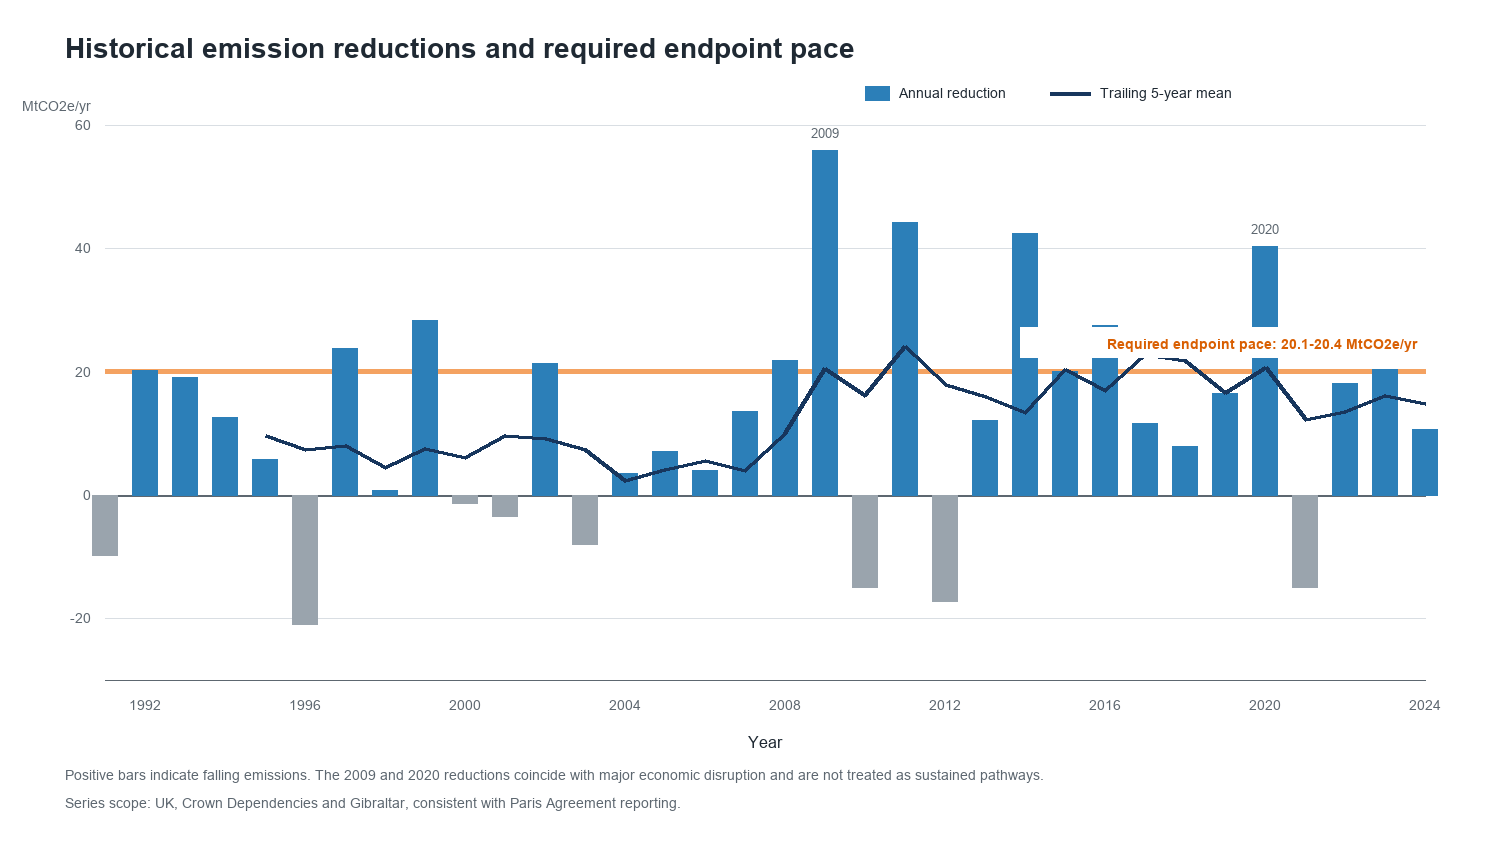
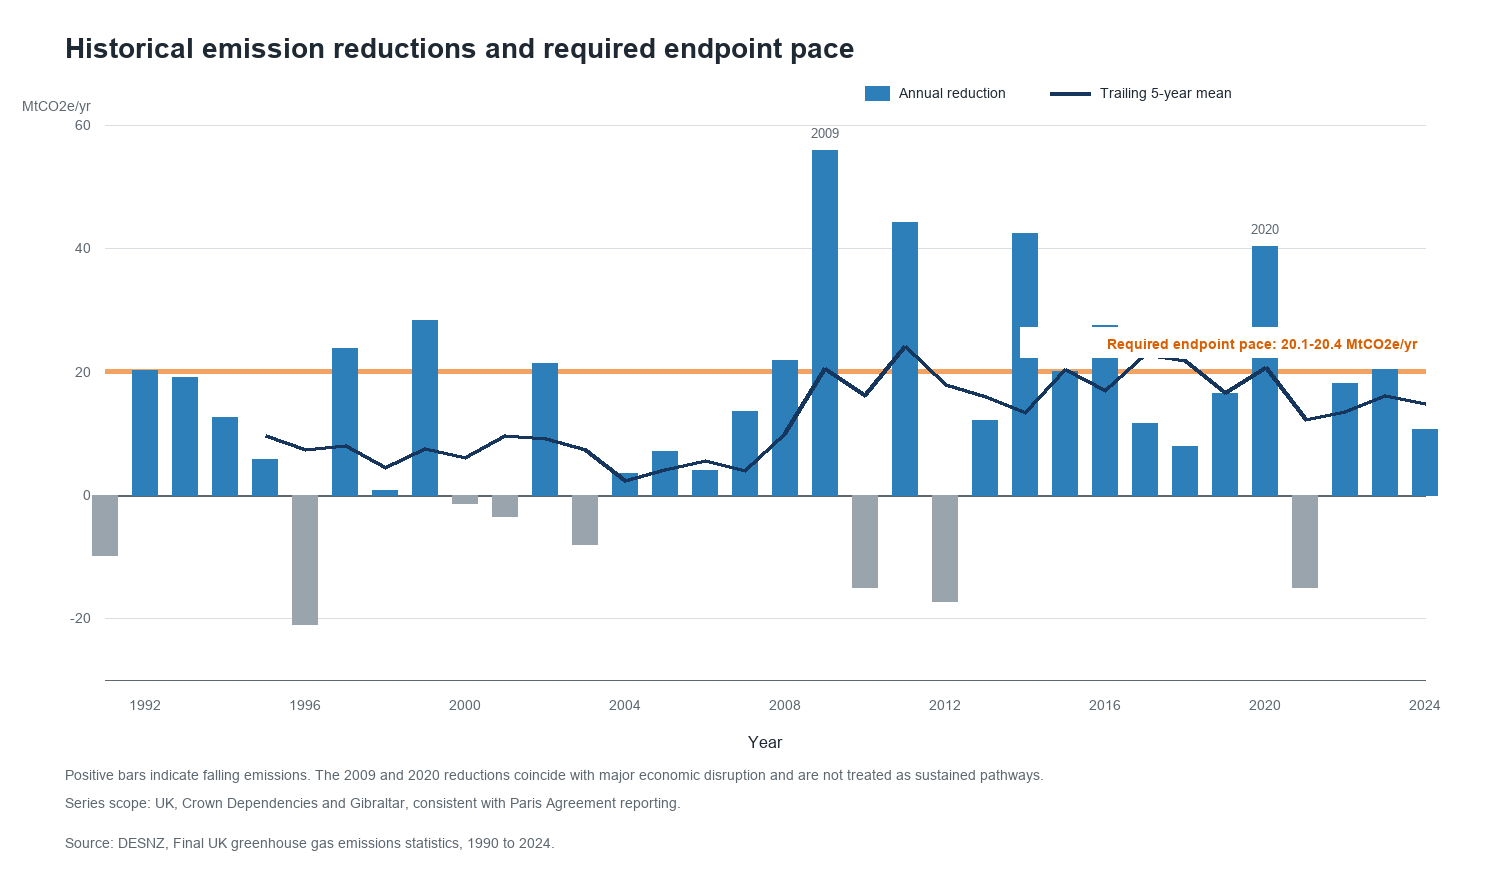
Finish the scientific review

diff --git a/scripts/plot_results.py b/scripts/plot_results.py
@@ -141,7 +141,7 @@ def figure_sector_change_and_uncertainty() -> None:
     sectors.sort(key=lambda row: float(row["avoided_emissions_mtco2e"]), reverse=True)
     uncertainty.sort(key=lambda row: float(row["emissions_2024_mtco2e"]), reverse=True)
 
-    width, height = 1500, 900
+    width, height = 1500, 930
     elements: list[str] = []
     elements.append(text(65, 58, "Sector changes and uncertainty in territorial emissions", 28, weight="bold"))
     elements.append(text(65, 96, "a. Contribution to the UK reduction", 20, weight="bold"))
@@ -206,6 +206,9 @@ def figure_sector_change_and_uncertainty() -> None:
             fill=GREY,
         )
     )
+    elements.append(
+        text(65, 900, "Source: DESNZ, Final UK greenhouse gas emissions statistics, 1990 to 2024.", 14, fill=GREY)
+    )
     write_svg(FIGURE_DIR / "sector_change_and_uncertainty.svg", width, height, elements)
 
 
@@ -224,7 +227,7 @@ def figure_ndc_pathways() -> None:
     path_2030 = compound_path(observed[-1][1], targets[2030], 2024, 2030)
     path_2035 = compound_path(observed[-1][1], targets[2035], 2024, 2035)
 
-    width, height = 1350, 820
+    width, height = 1350, 855
     left, right, top, bottom = 105, 1280, 120, 690
     xmin, xmax, ymin, ymax = 2021, 2035, 120.0, 455.0
 
@@ -312,6 +315,9 @@ def figure_ndc_pathways() -> None:
     elements.append(
         text(65, 798, "The NDC headline targets exclude international aviation and shipping.", 14, fill=GREY)
     )
+    elements.append(
+        text(65, 830, "Sources: DESNZ final UK emissions statistics, 1990 to 2024; UK 2035 NDC.", 14, fill=GREY)
+    )
     write_svg(FIGURE_DIR / "ndc_pathways.svg", width, height, elements)
 
 
@@ -320,7 +326,7 @@ def figure_historical_pace() -> None:
     pathways = read_csv(OUTPUT_DIR / "ndc_pathway_diagnostics.csv")
     required = [float(row["constant_absolute_reduction_mtco2e_per_year"]) for row in pathways]
 
-    width, height = 1500, 850
+    width, height = 1500, 880
     left, right, top, bottom = 105, 1425, 125, 680
     xmin, xmax, ymin, ymax = 1991, 2024, -30.0, 60.0
 
@@ -400,6 +406,9 @@ def figure_historical_pace() -> None:
             14,
             fill=GREY,
         )
+    )
+    elements.append(
+        text(65, 848, "Source: DESNZ, Final UK greenhouse gas emissions statistics, 1990 to 2024.", 14, fill=GREY)
     )
     elements.append(
         text(

diff --git a/README.md b/README.md
@@ -42,11 +42,9 @@ python scripts/plot_results.py
 python -m unittest discover -s tests -v
 ```
 
-The script writes compact CSV tables to `outputs/tables`. Later steps will add scientific figures and an uncertainty assessment.
+The scripts write compact CSV tables to `outputs/tables` and publication-ready figures to `outputs/figures`. The automated checks reconcile the principal totals, scopes, targets and uncertainty intervals against the source workbook.
 
 ## Sources and licence
 
 The source workbook is an Accredited Official Statistics release and is available under the Open Government Licence v3.0. Full URLs, attribution, retrieval date, scope notes and the source-file checksum are recorded in [docs/data-sources.md](docs/data-sources.md).
-
-This repository is being developed locally. It has not been published to GitHub.
 
